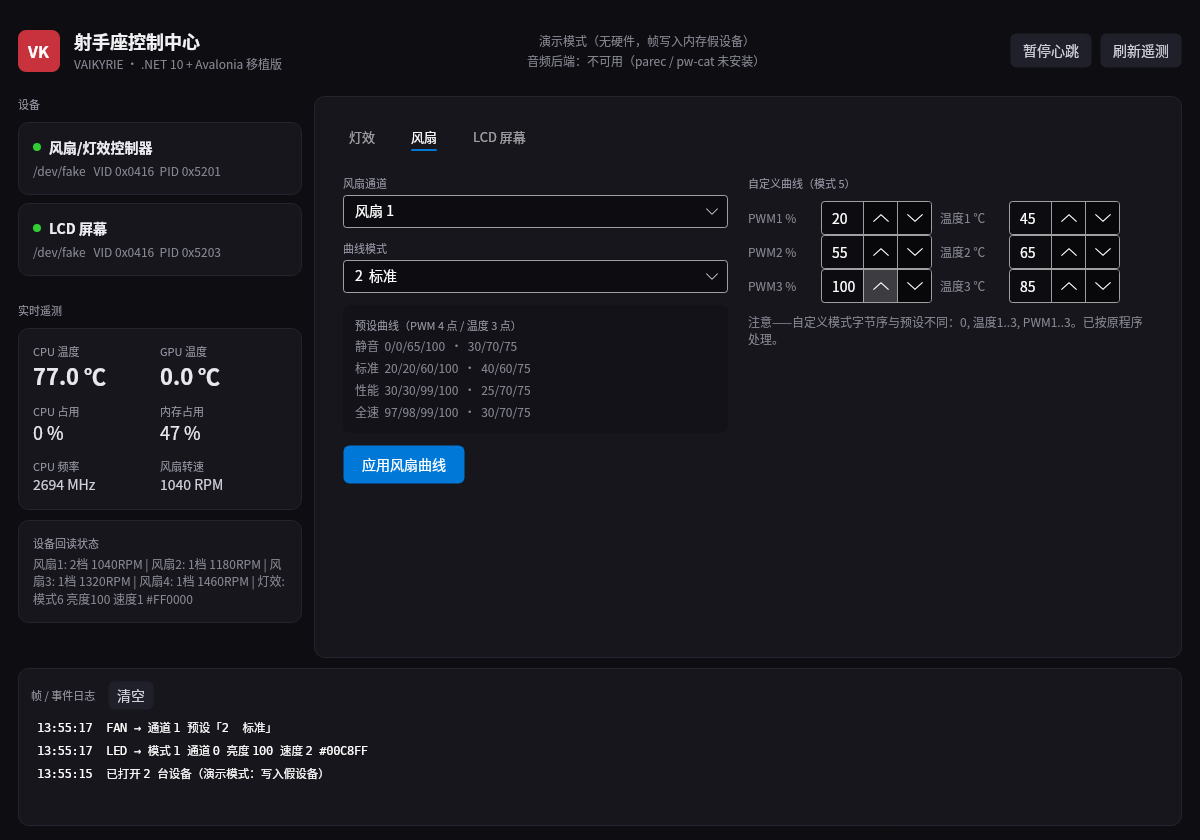
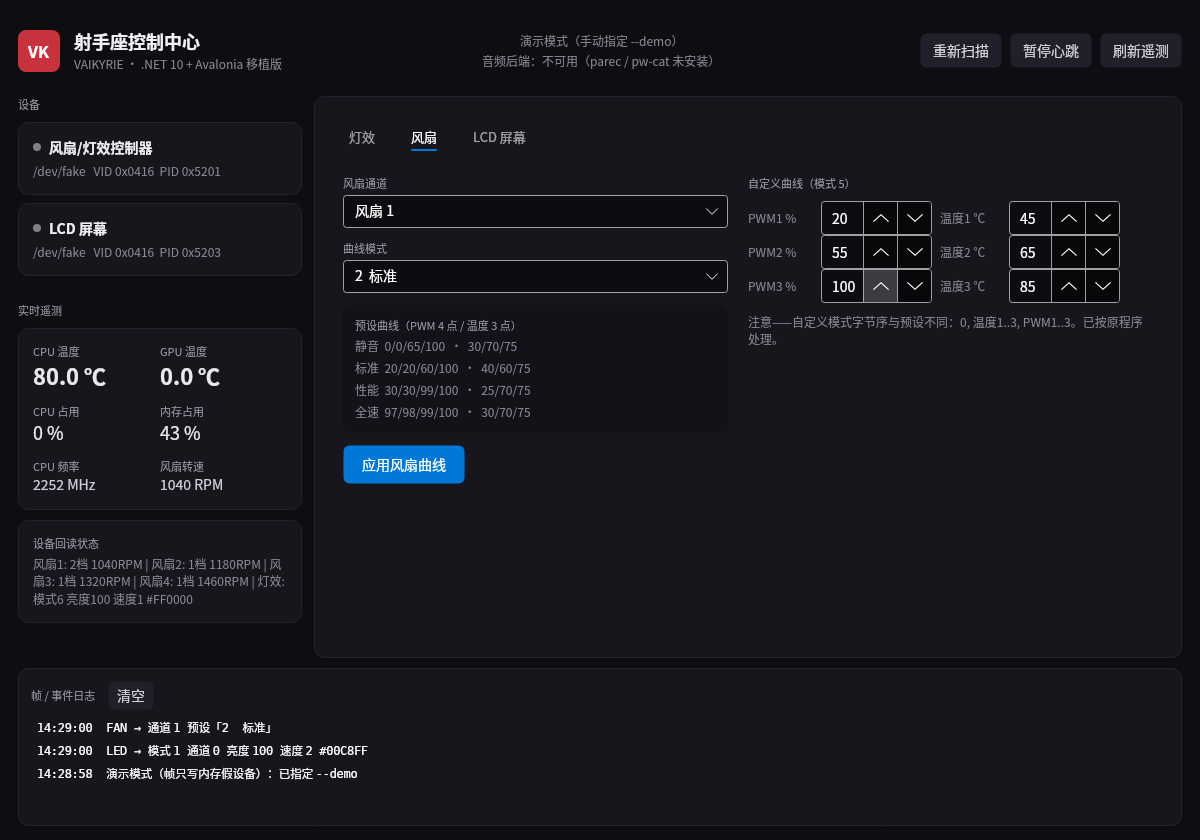
修复静默降级：逐台收集打开失败原因，横幅与日志如实显示权限/缺设备；新增重新扫描；headless 不再退回演示
- DeviceScanner.OpenAll 返回 DeviceOpenReport（设备 + 逐条错误）
- App.CreateDevice 带出去失败原因，MainViewModel 横幅区分三种情况
- 界面加「重新扫描」，udev 规则生效后无需重启
- --headless 在无真实设备时直接报错退出，不写假设备
- 测试改为 async，消除 xUnit1031 警告

diff --git a/dotnet/src/VkSagittarius.App/ViewModels/MainViewModel.cs b/dotnet/src/VkSagittarius.App/ViewModels/MainViewModel.cs
@@ -20,24 +20,18 @@ public sealed class DeviceItem : ObservableObject
 
 public sealed class MainViewModel : ObservableObject
 {
-    private readonly DeviceSet _set;
-    private readonly MonitorEngine _engine;
+    private DeviceSet _set;
+    private MonitorEngine _engine;
     private bool _demo;
+    private IReadOnlyList<string> _errors;
 
-    public MainViewModel(DeviceSet set, bool demo)
+    public MainViewModel(DeviceBootstrap boot)
     {
-        _set = set;
-        _demo = demo;
-        _engine = new MonitorEngine(set, Log);
-        _engine.StateUpdated += st => Dispatcher.UIThread.Post(() => ApplyState(st));
+        _set = boot.Set;
+        _demo = boot.Demo;
+        _errors = boot.Errors;
 
-        Devices = new ObservableCollection<DeviceItem>(set.Devices.Select(d => new DeviceItem
-        {
-            Title = Proto.ClassName(d.Class),
-            Subtitle = $"{d.Path}   VID 0x{Proto.Vid:X4}  PID 0x{Proto.PidForClass(d.Class):X4}",
-            Badge = $"类别 {d.Class}",
-            Online = true,
-        }));
+        Devices = new ObservableCollection<DeviceItem>(BuildDeviceItems(_set));
 
         LedModes = new ObservableCollection<Option>(Proto.LedModes
             .OrderBy(kv => kv.Key)
@@ -66,19 +60,100 @@ public sealed class MainViewModel : ObservableObject
         PresetColorCommand = new RelayCommand(PresetColor);
         ToggleMonitorCommand = new RelayCommand(ToggleMonitor);
         ClearLogCommand = new RelayCommand(FrameLog.Clear);
+        RescanCommand = new RelayCommand(Rescan);
 
-        set.RegisterAll();
+        _engine = NewEngine(_set);
+        _set.RegisterAll();
         Refresh();
-        Log($"已打开 {set.Devices.Count} 台设备" + (demo ? "（演示模式：写入假设备）" : ""));
+        ReportConnection();
         _engine.Start();
         MonitorRunning = true;
+    }
+
+    private static List<DeviceItem> BuildDeviceItems(DeviceSet set) => set.Devices.Select(d => new DeviceItem
+    {
+        Title = Proto.ClassName(d.Class),
+        Subtitle = $"{d.Path}   VID 0x{Proto.Vid:X4}  PID 0x{Proto.PidForClass(d.Class):X4}",
+        Badge = $"类别 {d.Class}",
+        Online = d.Path != "/dev/fake",
+    }).ToList();
+
+    private MonitorEngine NewEngine(DeviceSet set)
+    {
+        var engine = new MonitorEngine(set, Log);
+        engine.StateUpdated += st => Dispatcher.UIThread.Post(() => ApplyState(st));
+        return engine;
+    }
+
+    /// <summary>把连接结果如实写进横幅与日志：权限不足、没插设备、--demo 要能区分。</summary>
+    private void ReportConnection()
+    {
+        OnPropertyChanged(nameof(IsDemo));
+        OnPropertyChanged(nameof(ModeBanner));
+        OnPropertyChanged(nameof(ModeDetail));
+        OnPropertyChanged(nameof(AudioBanner));
+
+        if (!_demo)
+        {
+            Log($"已连接 {_set.Devices.Count} 台设备：" +
+                string.Join("、", _set.Devices.Select(d => $"{Proto.ClassName(d.Class)}@{d.Path}")));
+            return;
+        }
+        Log("演示模式（帧只写内存假设备）：" + (_errors.Count > 0 ? _errors[0] : "原因未知"));
+        foreach (var err in _errors.Skip(1)) Log("  " + err);
+    }
+
+    private void Rescan()
+    {
+        var boot = App.CreateDevice(false);
+        if (!boot.Demo)
+        {
+            _engine.Stop();
+            _engine.Dispose();
+            _set.Dispose();
+        }
+        else
+        {
+            boot.Set.Dispose();          // 仍是演示数据，丢弃
+            Log($"× 重新扫描未连上：{boot.Errors.FirstOrDefault() ?? "未知原因"}");
+            _demo = true;
+            _errors = boot.Errors;
+            ReportConnection();
+            return;
+        }
+
+        _set = boot.Set;
+        _demo = boot.Demo;
+        _errors = boot.Errors;
+        Devices.Clear();
+        foreach (var item in BuildDeviceItems(_set)) Devices.Add(item);
+        _engine = NewEngine(_set);
+        _set.RegisterAll();
+        ReportConnection();
+        _engine.Start();
+        MonitorRunning = true;
+        Refresh();
     }
 
     // ---------------------------------------------------------- 设备 / 遥测
 
     public ObservableCollection<DeviceItem> Devices { get; }
     public bool IsDemo => _demo;
-    public string ModeBanner => _demo ? "演示模式（无硬件，帧写入内存假设备）" : "已连接真实设备";
+
+    public string ModeBanner => _demo
+        ? (_errors.Count > 0 && _errors[0].Contains("权限") ? "未连上设备：权限不足（演示模式）"
+           : _errors.Count > 0 && _errors[0].Contains("--demo") ? "演示模式（手动指定 --demo）"
+           : "未发现设备（演示模式）")
+        : "已连接真实设备";
+
+    /// <summary>完整原因，鼠标悬停横幅可见。</summary>
+    public string ModeDetail => _demo
+        ? string.Join("\n", _errors) + "\n\n权限不足时执行：\n" +
+          "sudo install -m644 /usr/lib/udev/rules.d/99-vk-sagittarius.rules /etc/udev/rules.d/ 2>/dev/null || true\n" +
+          "sudo udevadm control --reload && sudo udevadm trigger --subsystem-match=hidraw\n" +
+          "然后点「重新扫描」。"
+        : $"已连接 {_set.Devices.Count} 台设备";
+
     public string AudioBanner => _set.AudioAvailable ? $"音频后端：{_set.Meter.Backend}" : "音频后端：不可用（parec / pw-cat 未安装）";
 
     private string _cpuTemp = "-";
@@ -296,6 +371,7 @@ public sealed class MainViewModel : ObservableObject
     public RelayCommand ToggleMonitorCommand { get; }
     public RelayCommand RefreshCommand { get; }
     public RelayCommand ClearLogCommand { get; }
+    public RelayCommand RescanCommand { get; }
 
     private void ToggleMonitor()
     {

diff --git a/dotnet/src/VkSagittarius.App/App.axaml.cs b/dotnet/src/VkSagittarius.App/App.axaml.cs
@@ -10,11 +10,10 @@ using VkSagittarius.Core;
 
 namespace VkSagittarius.App;
 
+public sealed record DeviceBootstrap(DeviceSet Set, bool Demo, IReadOnlyList<string> Errors);
+
 public sealed class App : Application
 {
-    public DeviceSet? Set { get; private set; }
-    public bool Demo { get; private set; }
-
     public override void Initialize() => AvaloniaXamlLoader.Load(this);
 
     public override void OnFrameworkInitializationCompleted()
@@ -22,11 +21,9 @@ public sealed class App : Application
         if (ApplicationLifetime is IClassicDesktopStyleApplicationLifetime desktop)
         {
             var args = desktop.Args ?? [];
-            Demo = args.Contains("--demo");
-            Set = CreateDeviceSet(Demo);
-            Demo = Demo || !Set.Devices.Any(d => d.Path != "/dev/fake");
+            var boot = CreateDevice(args.Contains("--demo"));
 
-            var vm = new MainViewModel(Set, Demo);
+            var vm = new MainViewModel(boot);
             var window = new MainWindow { DataContext = vm };
             desktop.MainWindow = window;
             desktop.ShutdownRequested += (_, _) => vm.Shutdown();
@@ -34,20 +31,35 @@ public sealed class App : Application
         base.OnFrameworkInitializationCompleted();
     }
 
-    public static DeviceSet CreateDeviceSet(bool demo)
+    /// <summary>
+    /// 打开设备。forceDemo 只由 --demo 触发；否则先真连，连不上才退演示模式，
+    /// 并把每台设备的失败原因原样带出去——权限不足不能再被伪装成"没有设备"。
+    /// </summary>
+    public static DeviceBootstrap CreateDevice(bool forceDemo)
     {
-        if (!demo)
-        {
-            try
-            {
-                var transports = DeviceScanner.OpenAll();
-                if (transports.Count > 0) return new DeviceSet(transports);
-            }
-            catch (Exception ex)
-            {
-                Console.Error.WriteLine($"打开真实设备失败：{ex.Message}");
-            }
-        }
-        return new DeviceSet([new FakeTransport(1), new FakeTransport(3)]);
+        if (forceDemo)
+            return new DeviceBootstrap(
+                new DeviceSet([new FakeTransport(1), new FakeTransport(3)]),
+                Demo: true,
+                Errors: ["已指定 --demo"]);
+
+        var report = DeviceScanner.OpenAll();
+        if (report.Devices.Count > 0)
+            return new DeviceBootstrap(new DeviceSet(report.Devices), Demo: false, Errors: report.Errors);
+
+        var errors = report.Errors.Count > 0
+            ? report.Errors
+            : [$"未发现 VID 0x{Proto.Vid:X4} / PID 0x5201-0x5203 的 HID 设备"];
+
+        return new DeviceBootstrap(
+            new DeviceSet([new FakeTransport(1), new FakeTransport(3)]),
+            Demo: true,
+            Errors: errors);
     }
+
+    public static AppBuilder BuildAvaloniaApp() =>
+        AppBuilder.Configure<App>()
+            .UsePlatformDetect()
+            .WithInterFont()
+            .LogToTrace();
 }

diff --git a/dotnet/src/VkSagittarius.App/Program.cs b/dotnet/src/VkSagittarius.App/Program.cs
@@ -36,14 +36,17 @@ internal static class Program
     /// </summary>
     private static int HeadlessRun(int seconds)
     {
-        var candidates = DeviceScanner.Scan();
-        var set = App.CreateDeviceSet(candidates.Count == 0);
-        if (!set.Any)
+        var boot = App.CreateDevice(false);
+        if (boot.Demo)
         {
-            Console.Error.WriteLine("没有可用设备，退出");
+            Console.Error.WriteLine("没有可用的真实设备，心跳模式不启动。原因：");
+            foreach (var err in boot.Errors) Console.Error.WriteLine("  " + err);
+            Console.Error.WriteLine("权限不足时安装 udev 规则：sudo install -m644 packaging/99-vk-sagittarius.rules /etc/udev/rules.d/");
+            boot.Set.Dispose();
             return 2;
         }
 
+        var set = boot.Set;
         using var cts = new CancellationTokenSource(
             seconds > 0 ? TimeSpan.FromSeconds(seconds) : Timeout.InfiniteTimeSpan);
         Console.CancelKeyPress += (_, e) => { e.Cancel = true; TryCancel(cts); };
@@ -76,7 +79,10 @@ internal static class Program
         foreach (var c in candidates)
             Console.WriteLine($"  {c.Path}  PID 0x{c.Pid:X4}  类别 {c.DeviceClass}  {c.Name}");
 
-        var set = App.CreateDeviceSet(candidates.Count == 0);
+        var boot = App.CreateDevice(false);
+        var set = boot.Set;
+        Console.WriteLine($"{boot.Demo switch { true => "演示模式（无真实设备）", false => "真实设备已连接" }}");
+        foreach (var err in boot.Errors) Console.WriteLine("  ! " + err);
         Console.WriteLine($"打开设备 {set.Devices.Count} 台：" +
                           string.Join(", ", set.Devices.Select(d => $"{Proto.ClassName(d.Class)}@{d.Path}")));
 

diff --git a/dotnet/src/VkSagittarius.Core/Transport.cs b/dotnet/src/VkSagittarius.Core/Transport.cs
@@ -119,6 +119,8 @@ public sealed record HidCandidate(string Path, ushort Vid, ushort Pid, string Na
     public int DeviceClass => Proto.ClassForPid(Pid);
 }
 
+public sealed record DeviceOpenReport(IReadOnlyList<IHidTransport> Devices, IReadOnlyList<string> Errors);
+
 public static class DeviceScanner
 {
     private const string SysRoot = "/sys/class/hidraw";
@@ -147,19 +149,31 @@ public static class DeviceScanner
         return list;
     }
 
-    public static IReadOnlyList<IHidTransport> OpenAll()
+    /// <summary>
+    /// 逐个尝试打开，失败原因逐条收集——不要因为一台设备没权限就把整批降级成"没设备"。
+    /// </summary>
+    public static DeviceOpenReport OpenAll()
     {
         var counters = new Dictionary<int, int>();
-        var result = new List<IHidTransport>();
+        var devices = new List<IHidTransport>();
+        var errors = new List<string>();
+
         foreach (var cand in Scan())
         {
             var cls = cand.DeviceClass;
             if (cls == 0) continue;
             var idx = counters.GetValueOrDefault(cls);
             counters[cls] = idx + 1;
-            result.Add(new HidrawTransport(cand.Path, cls, idx));
+            try
+            {
+                devices.Add(new HidrawTransport(cand.Path, cls, idx));
+            }
+            catch (Exception ex)
+            {
+                errors.Add($"{cand.Path}（PID 0x{cand.Pid:X4}，{cand.Name}）：{ex.Message}");
+            }
         }
-        return result;
+        return new DeviceOpenReport(devices, errors);
     }
 
     private static Dictionary<string, string> ReadUevent(string path)

diff --git a/dotnet/tests/VkSagittarius.Tests/ProtocolTests.cs b/dotnet/tests/VkSagittarius.Tests/ProtocolTests.cs
@@ -166,7 +166,7 @@ public class DeviceScannerTests
 public class MonitorEngineTests
 {
     [Fact]
-    public void LoopSendsAudioAndStateFramesAndLcdCycle()
+    public async Task LoopSendsAudioAndStateFramesAndLcdCycle()
     {
         var fan = new FakeTransport(1, 0);
         var lcd = new FakeTransport(3, 0);
@@ -174,7 +174,7 @@ public class MonitorEngineTests
         using var engine = new MonitorEngine(set);
 
         using var cts = new CancellationTokenSource(TimeSpan.FromMilliseconds(700));
-        engine.RunAsync(cts.Token).GetAwaiter().GetResult();
+        await engine.RunAsync(cts.Token);
 
         var audioFrames = fan.Sent.Where(f => f.Length > 12 && f[12] == (byte)Proto.Cmd.Audio).ToList();
         var stateFrames = fan.Sent.Where(f => f.Length > 12 && f[12] == (byte)Proto.Cmd.GetState).ToList();

diff --git a/dotnet/tools/Screenshot/Program.cs b/dotnet/tools/Screenshot/Program.cs
@@ -21,7 +21,7 @@ AppBuilder.Configure<App>()
     .SetupWithoutStarting();
 
 var set = new DeviceSet([new FakeTransport(1), new FakeTransport(3)]);
-var vm = new MainViewModel(set, demo: true);
+var vm = new MainViewModel(new DeviceBootstrap(set, Demo: true, Errors: ["已指定 --demo"]));
 var window = new MainWindow { DataContext = vm };
 window.Show();
 

diff --git a/README.md b/README.md
@@ -51,6 +51,21 @@ dotnet publish src/VkSagittarius.App -c Release -r linux-x64 --self-contained fa
 | `--self-test` | 不进图形界面，打印设备枚举、遥测、一轮 LED/FAN/LCD 发送结果 |
 | `--headless [--seconds N]` | 常驻心跳：不开窗口，只跑 10Hz 音频帧 + 1Hz 状态回读 + 1Hz LCD 三段文本；N 秒后自退（验证用） |
 
+## 为什么显示"演示模式"
+
+右上角横幅会直接写原因，鼠标悬停看完整信息。三种情况：
+
+- **权限不足**：`/dev/hidraw*` 在 Arch 上默认是 `root:root 0660`，普通用户打不开，
+  程序只能退化成演示模式。装 udev 规则（`makepkg -si` 会带上）后执行
+  `sudo udevadm control --reload && sudo udevadm trigger --subsystem-match=hidraw`，
+  再点界面上的「重新扫描」即可，不必重启程序。
+- **没有设备**：`--self-test` 会打印枚举结果，确认 VID `0x0416`、PID `0x5201-0x5203`
+  是否出现。
+- **手动 `--demo`**：强制演示模式，横幅会写"手动指定"。
+
+早期版本会吞掉 open 的异常并静默退化成演示模式，现在每台设备的失败原因都会
+记进日志与横幅。
+
 ## 权限
 
 `/dev/hidraw*` 默认只有 root 可写。装 udev 规则即可免 sudo：
